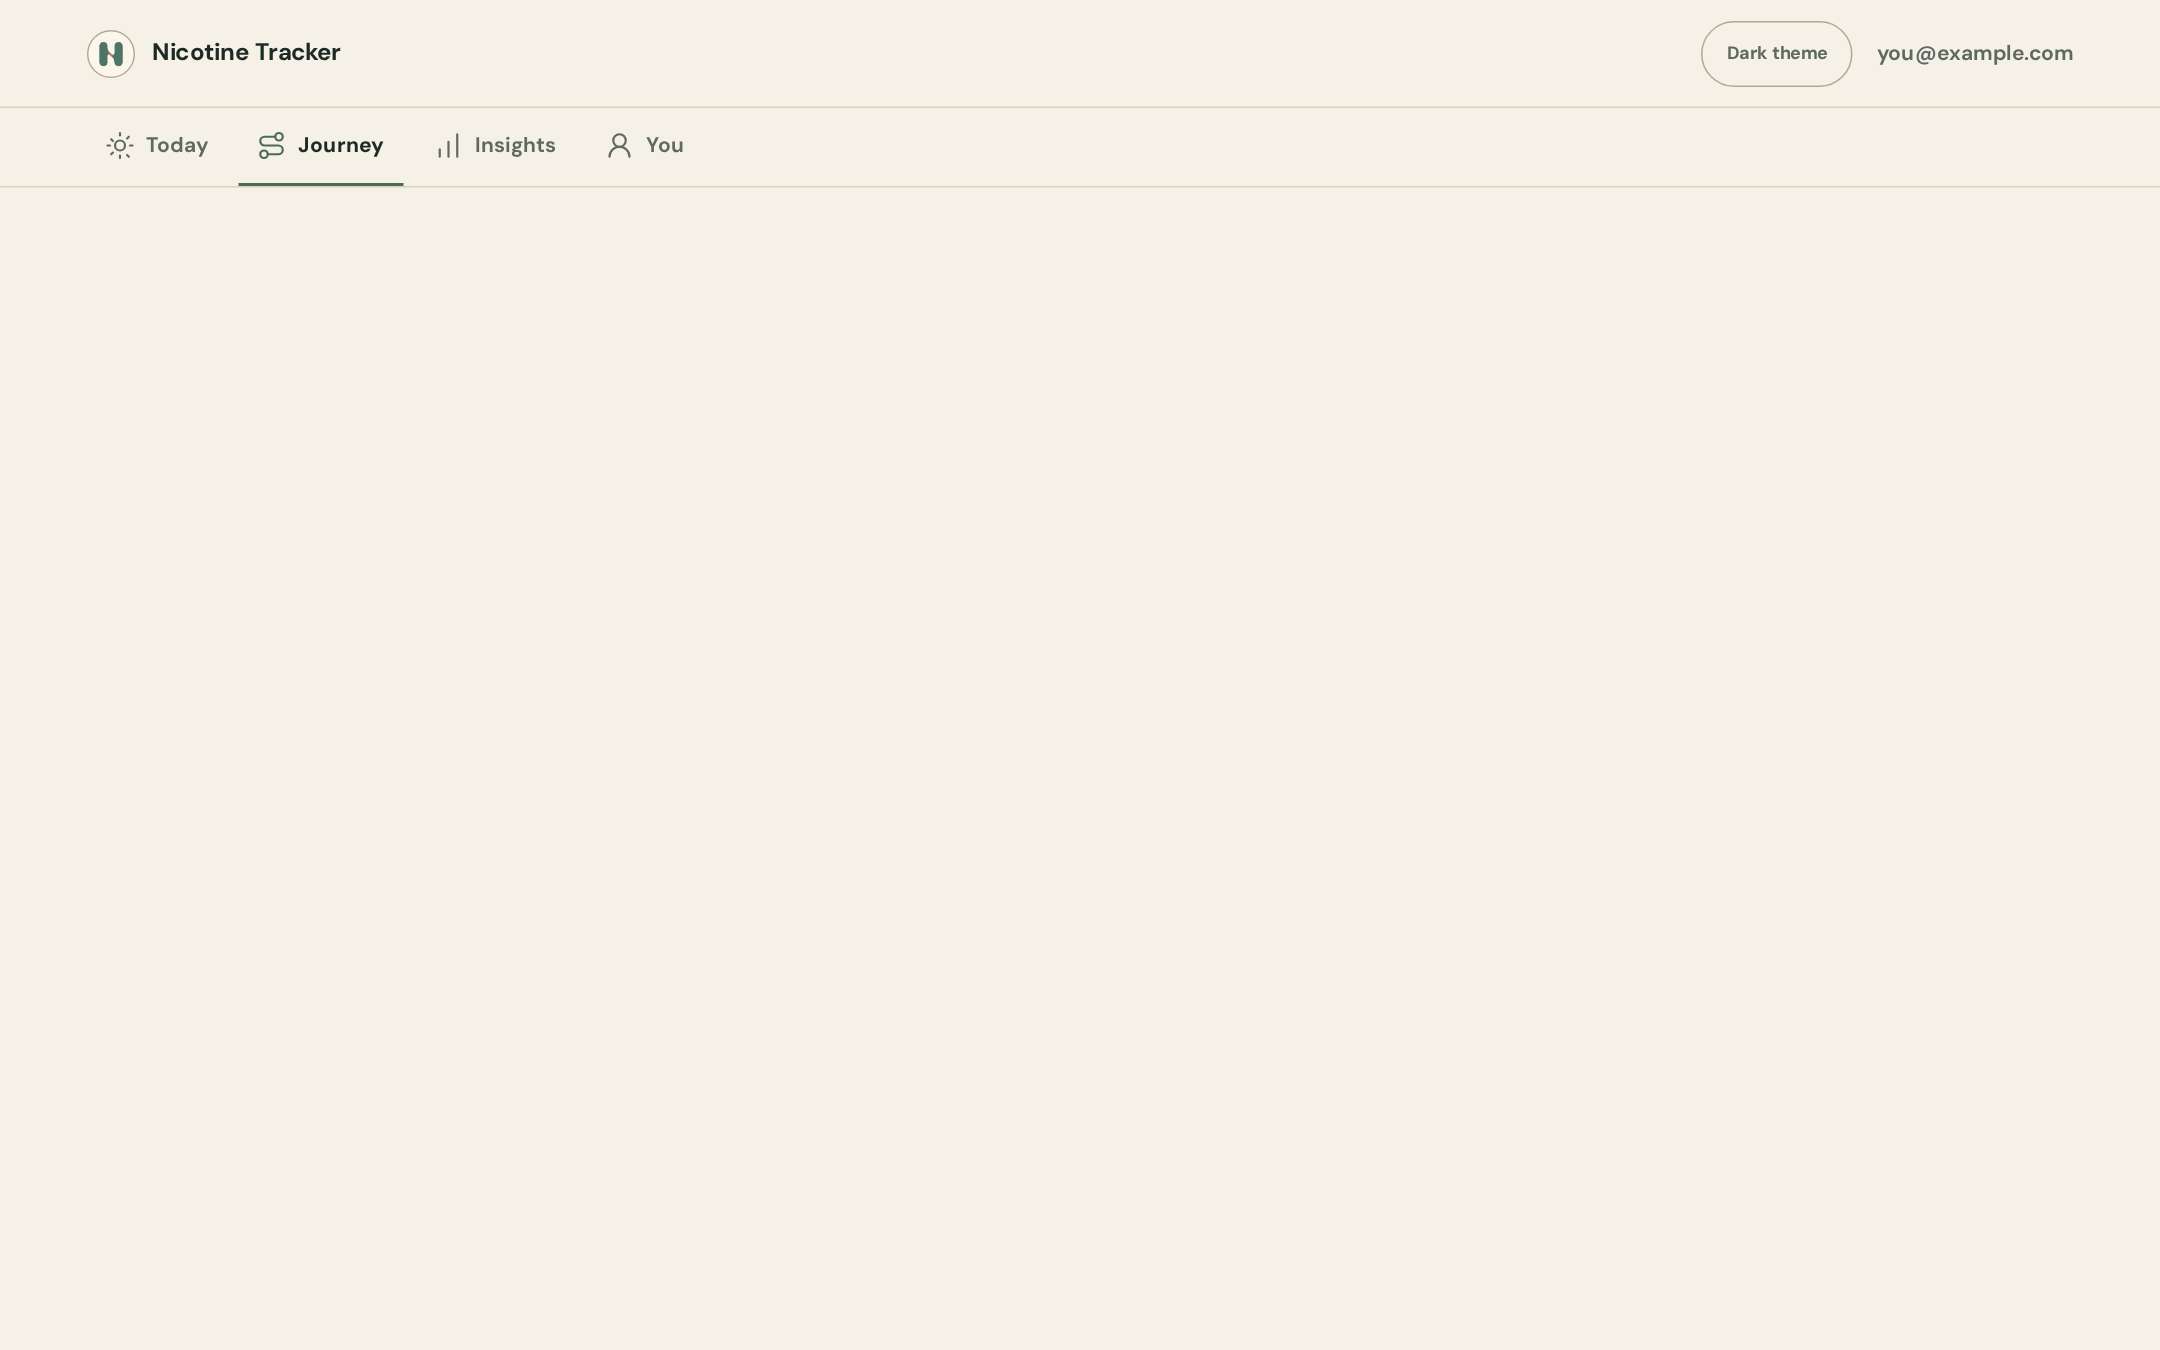
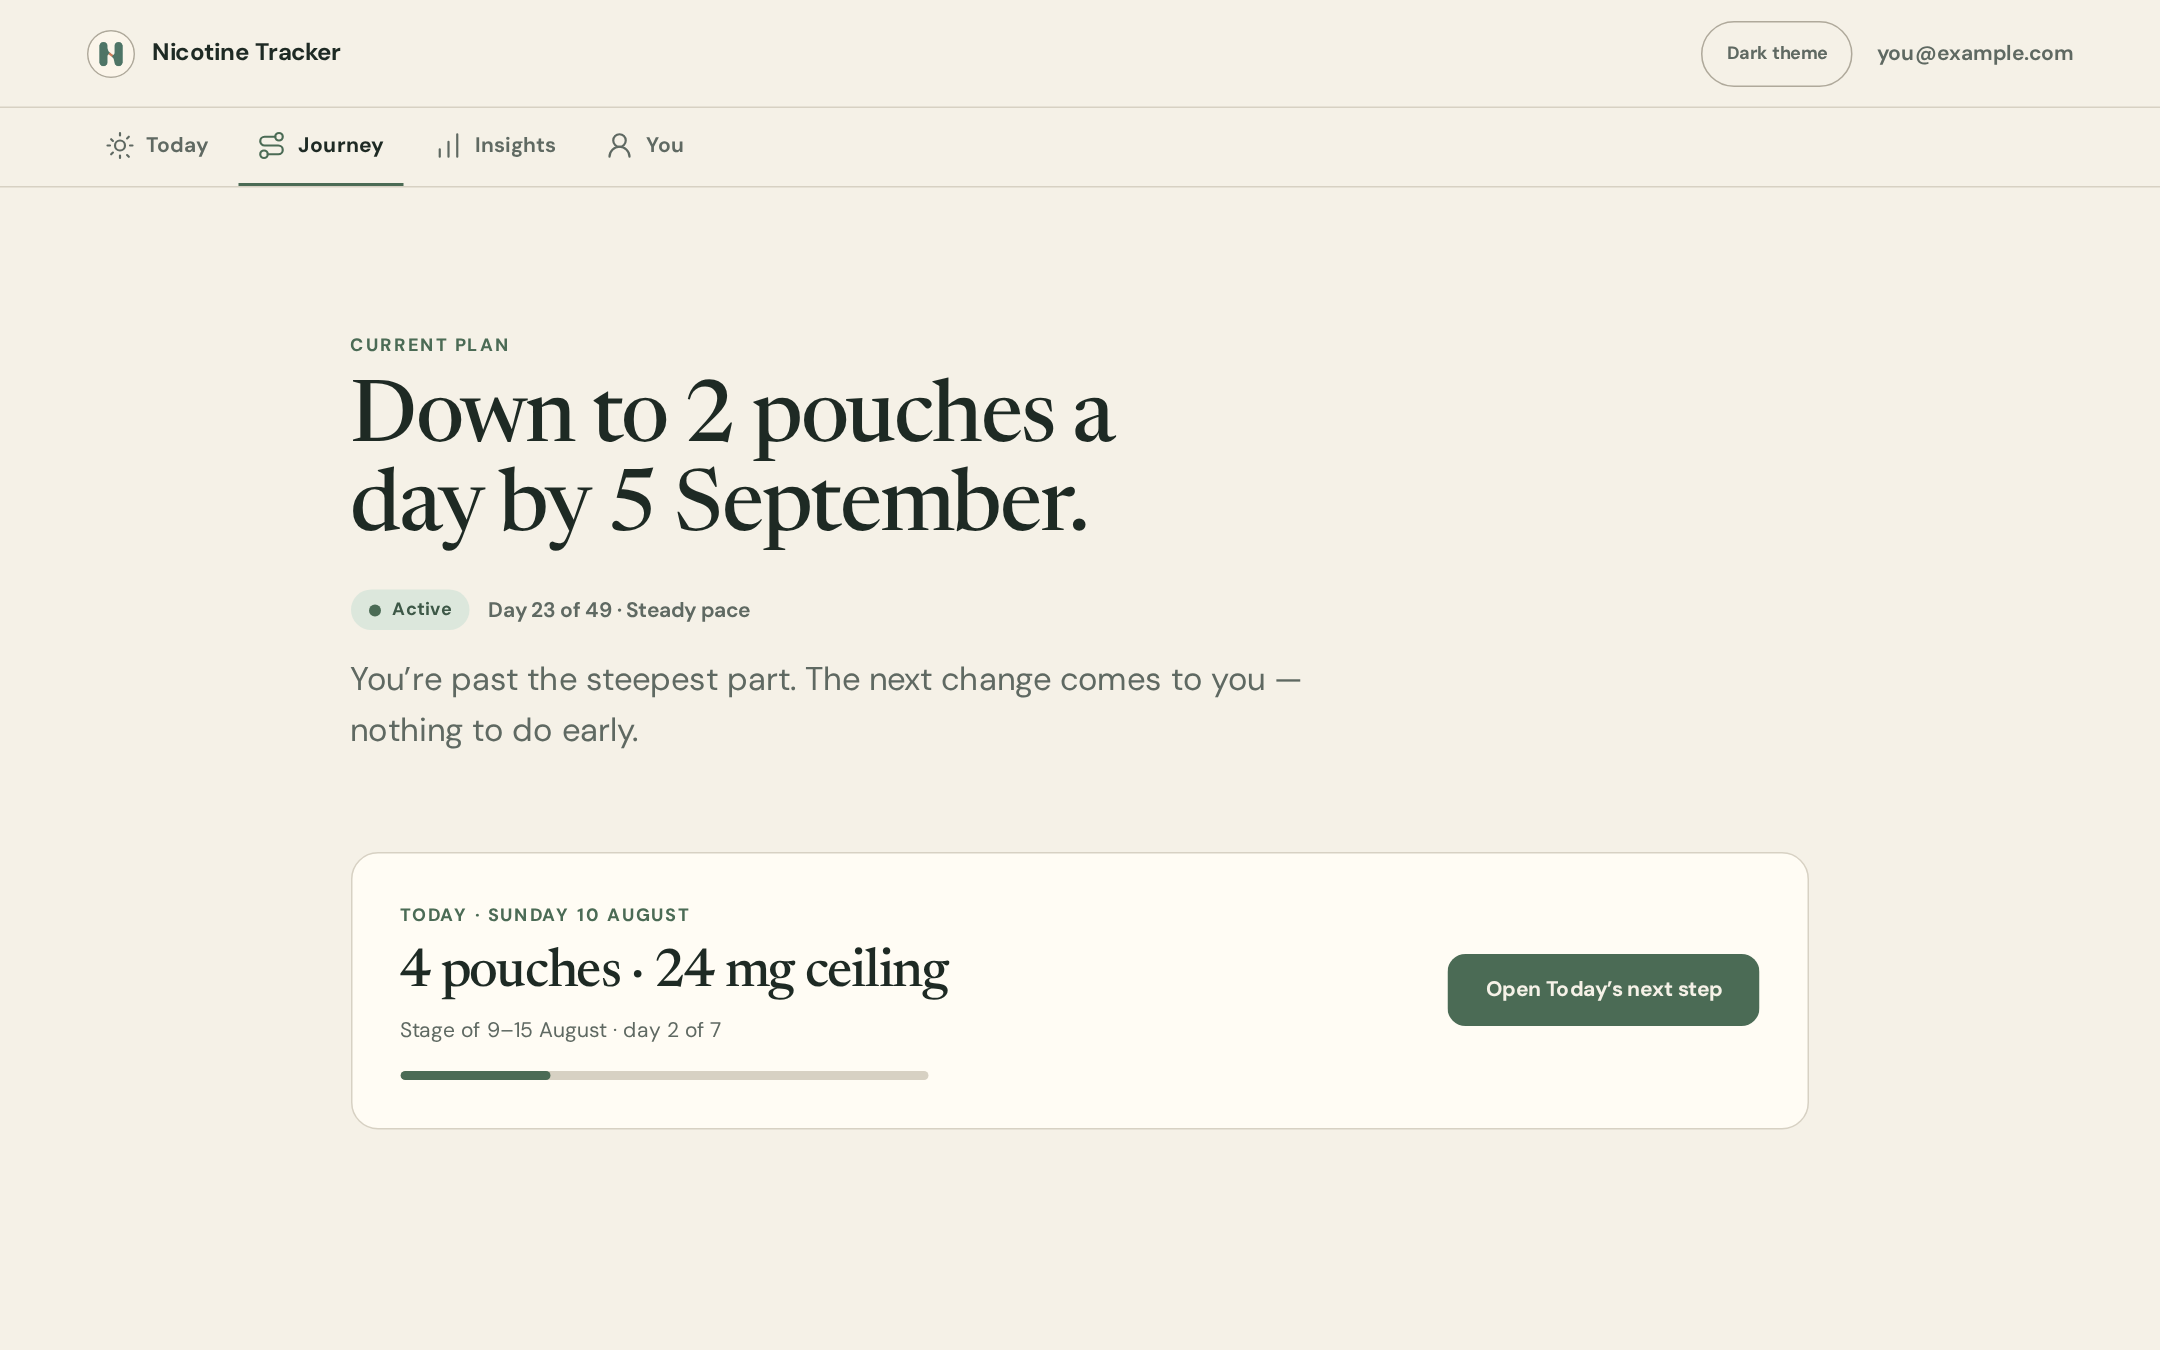
prototype: Journey orientation header and today panel

diff --git a/prototypes/journey/index.html b/prototypes/journey/index.html
@@ -309,7 +309,90 @@ button { font: inherit; }
   padding: clamp(2rem, 4vw, 3.5rem) var(--gutter) clamp(6rem, 10vw, 8rem);
 }
 
+/* ---------- Journey hero (orientation) ---------- */
+.journey-hero {
+  padding-block-start: clamp(1rem, 3vw, 2.5rem);
+  margin-block-end: clamp(2.5rem, 5vw, 4rem);
+}
+.journey-hero h1 {
+  font-size: var(--text-title);
+  font-weight: 470;
+  max-width: 15ch;
+}
+.journey-hero__status {
+  display: flex;
+  align-items: center;
+  flex-wrap: wrap;
+  gap: var(--space-3);
+  margin-block-start: var(--space-6);
+  color: var(--color-text-muted);
+  font-size: var(--text-small);
+  font-weight: 650;
+}
+.status-pill {
+  display: inline-flex;
+  align-items: center;
+  gap: var(--space-2);
+  padding: var(--space-1) var(--space-3);
+  border-radius: 999px;
+  background: var(--color-constructive-soft);
+  color: var(--color-constructive-deep);
+  font-size: var(--text-caption);
+  font-weight: 720;
+  letter-spacing: .02em;
+}
+.status-dot {
+  width: .5rem;
+  height: .5rem;
+  border-radius: 50%;
+  background: var(--color-constructive);
+}
+.journey-hero__coach {
+  margin-block-start: var(--space-4);
+  color: var(--color-text-muted);
+  font-size: var(--text-lead);
+  max-width: 44ch;
+}
+
+/* ---------- Today panel ---------- */
+.today-panel {
+  display: flex;
+  align-items: center;
+  justify-content: space-between;
+  gap: var(--space-6) var(--space-8);
+  padding: clamp(1.25rem, 3vw, 2rem);
+  background: var(--color-surface-raised);
+  border: 1px solid var(--color-border);
+  border-radius: var(--radius-surface);
+}
+.today-panel__main { min-width: 0; }
+.today-panel h2 {
+  font-size: clamp(1.6rem, 1.3rem + 1.4vw, 2.25rem);
+  font-weight: 500;
+}
+.today-panel__stage {
+  margin-block-start: var(--space-2);
+  color: var(--color-text-muted);
+  font-size: var(--text-small);
+}
+.today-panel__progress {
+  margin-block-start: var(--space-4);
+  height: .375rem;
+  max-width: 22rem;
+  border-radius: 999px;
+  background: var(--color-border);
+  overflow: hidden;
+}
+.today-panel__progress span {
+  display: block;
+  height: 100%;
+  border-radius: inherit;
+  background: var(--color-constructive);
+}
+.today-panel .c-button { flex: none; }
+
 @media (max-width: 48rem) {
+  .today-panel { flex-direction: column; align-items: stretch; }
   .primary-nav {
     inset-block-start: auto;
     inset-block-end: 0;
@@ -371,6 +454,29 @@ button { font: inherit; }
 </nav>
 
 <main id="main-content" class="app-content" tabindex="-1">
+  <header class="journey-hero rise" style="--i:0">
+    <p class="eyebrow">Current plan</p>
+    <h1>Down to 2 pouches a day by 5&nbsp;September.</h1>
+    <p class="journey-hero__status">
+      <span class="status-pill status-pill--active">
+        <span class="status-dot" aria-hidden="true"></span> Active
+      </span>
+      <span>Day 23 of 49 · Steady pace</span>
+    </p>
+    <p class="journey-hero__coach">You’re past the steepest part. The next change comes to you — nothing to do early.</p>
+  </header>
+
+  <section class="today-panel rise" style="--i:1" aria-labelledby="today-panel-title">
+    <div class="today-panel__main">
+      <p class="eyebrow">Today · Sunday 10 August</p>
+      <h2 id="today-panel-title">4 pouches · 24 mg ceiling</h2>
+      <p class="today-panel__stage">Stage of 9–15 August · day 2 of 7</p>
+      <div class="today-panel__progress" role="progressbar" aria-valuemin="1" aria-valuemax="7" aria-valuenow="2" aria-label="Day 2 of 7 in this stage">
+        <span style="inline-size: 28.6%"></span>
+      </div>
+    </div>
+    <a class="c-button c-button--primary" href="#">Open Today’s next step</a>
+  </section>
 </main>
 
 <script>

diff --git a/prototypes/journey/shot.js b/prototypes/journey/shot.js
@@ -15,6 +15,8 @@ const { chromium } = require("playwright");
   });
   await desktop.goto(url, { waitUntil: "networkidle" });
   await desktop.waitForSelector(".app-topbar", { timeout: 5000 });
+  await desktop.waitForSelector(".journey-hero__status", { timeout: 5000 });
+  await desktop.waitForSelector(".today-panel__progress", { timeout: 5000 });
   await desktop.waitForTimeout(1400); // let entrance motion finish
   await desktop.screenshot({ path: "shot-desktop-full.png", fullPage: true });
   if (errors.length) {
